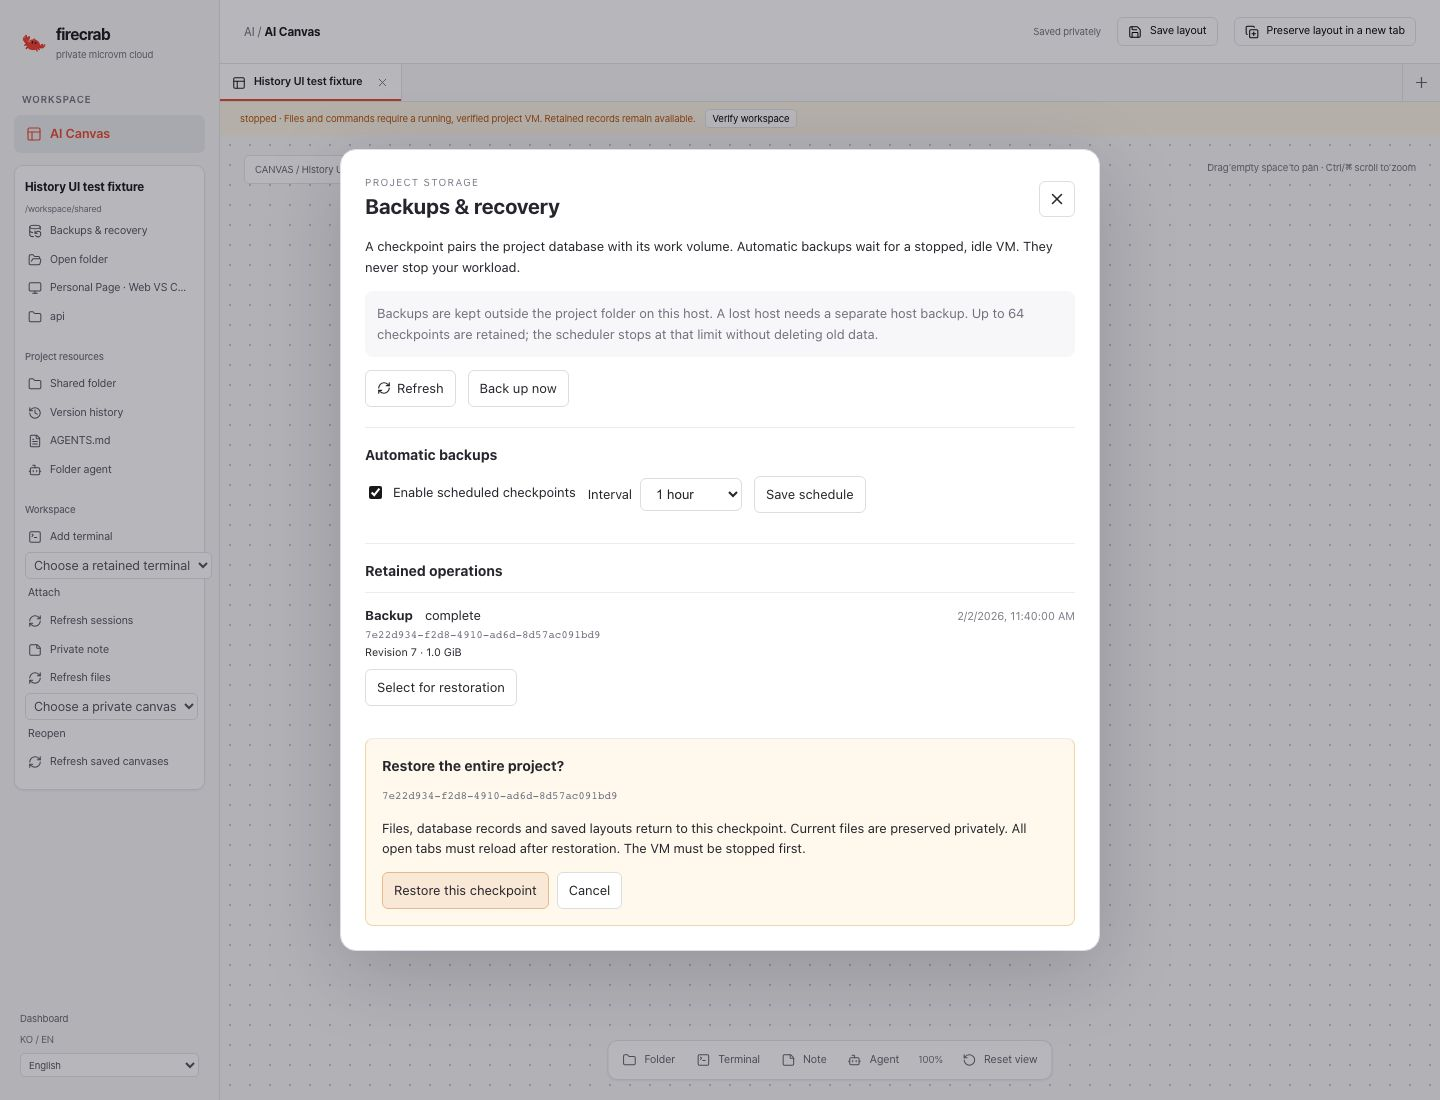
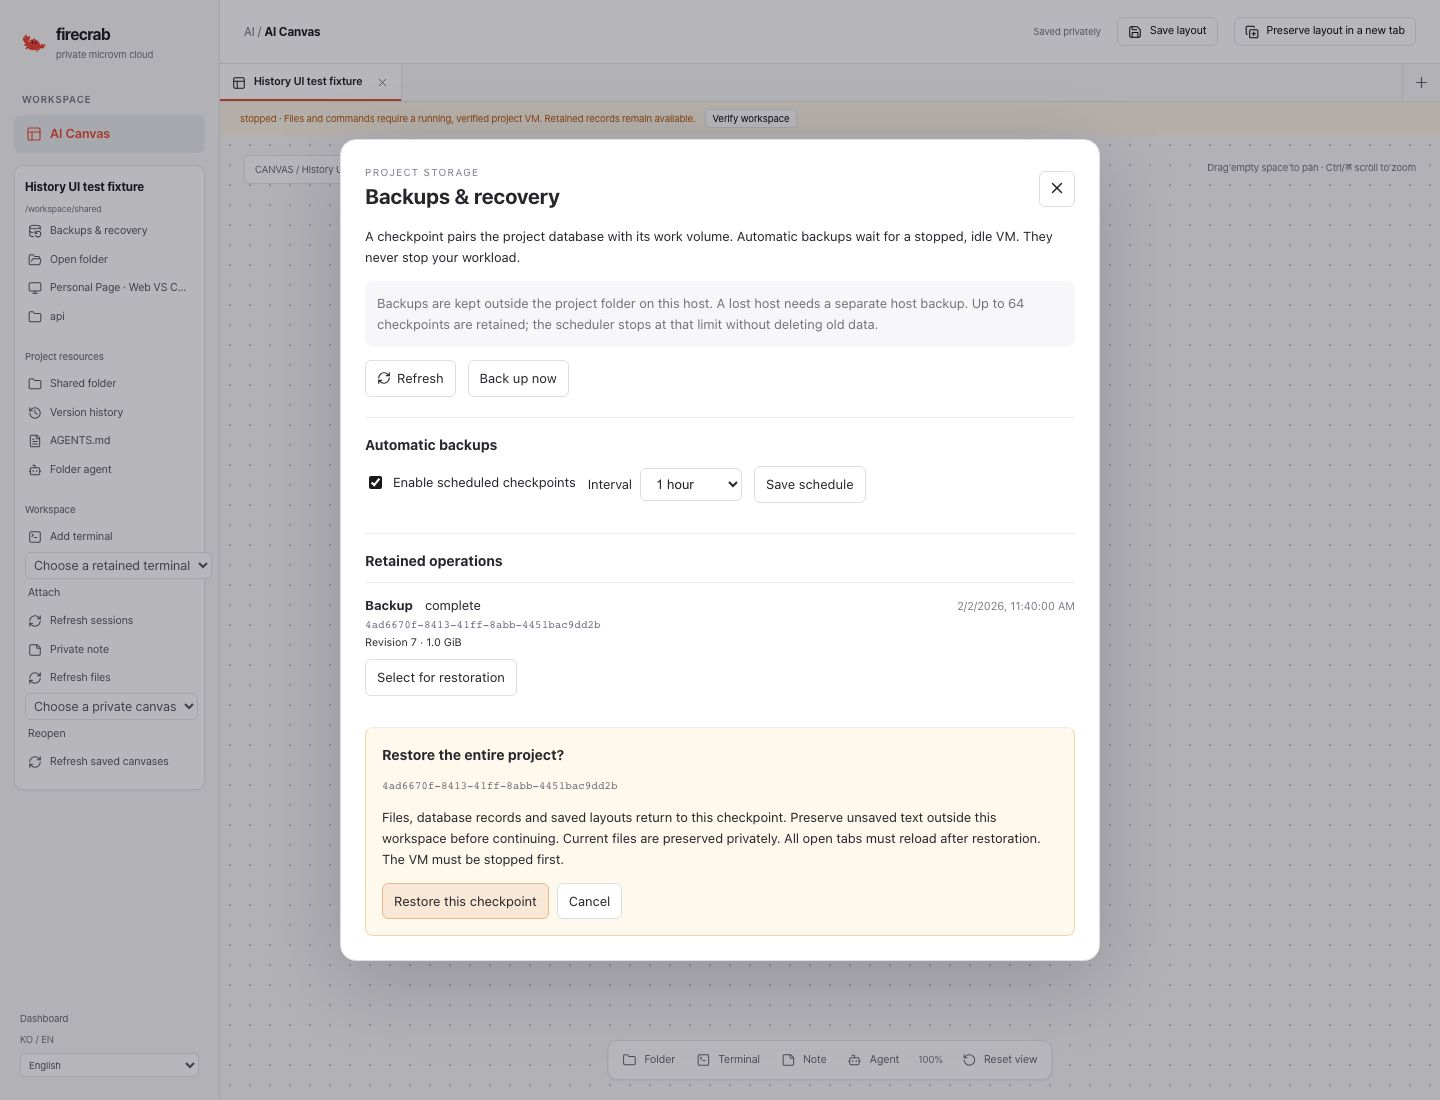
fix(canvas): keep backup cleanup resumable in recovery controls

diff --git a/firecrab-frontend/src/components/ProjectBackups.tsx b/firecrab-frontend/src/components/ProjectBackups.tsx
@@ -389,8 +389,8 @@ export default function ProjectBackups({ project }: { project: string }) {
               <code>{restore}</code>
               <p>
                 {t(
-                  "Files, database records and saved layouts return to this checkpoint. Current files are preserved privately. All open tabs must reload after restoration. The VM must be stopped first.",
-                  "파일, DB 기록, 저장된 화면을 선택한 시점으로 되돌린다. 현재 파일은 별도로 보존한다. 복구 후에는 모든 탭을 다시 읽어야 한다. 먼저 VM을 정지한다.",
+                  "Files, database records and saved layouts return to this checkpoint. Preserve unsaved text outside this workspace before continuing. Current files are preserved privately. All open tabs must reload after restoration. The VM must be stopped first.",
+                  "파일, DB 기록, 저장된 화면을 선택한 시점으로 되돌린다. 계속하기 전에 미저장 텍스트를 작업 공간 밖에 복사한다. 현재 파일은 별도로 보존한다. 복구 후에는 모든 탭을 다시 읽어야 한다. 먼저 VM을 정지한다.",
                 )}
               </p>
               <button
